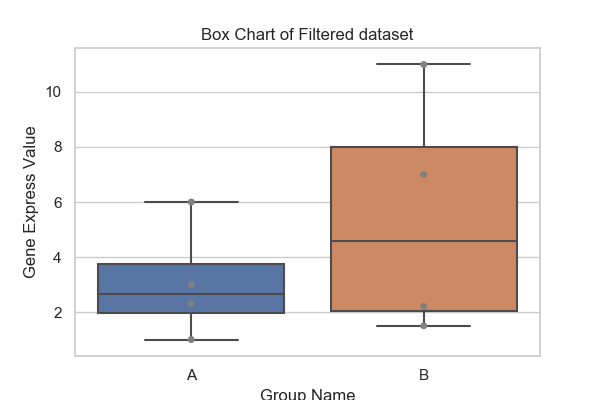
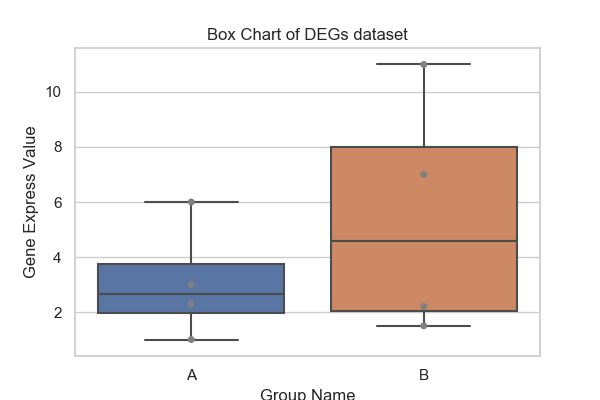
show pictures beautifully

Changed region(s): [[0.33, 0.06, 0.69, 0.12]]

diff --git a/templates/outcomePage.html b/templates/outcomePage.html
@@ -26,14 +26,133 @@
 		<button class="btn bg-danger">点击下载结果</button>
 	</a>
 
-    <img src="/static/images/box1.png">
-    <img src="/static/images/box2.png">
-    <img src="/static/images/scatter1.png">
-    <img src="/static/images/scatter2.png">
-    <img src="/static/images/line1.png">
-    <img src="/static/images/line2.png">
-    <img src="/static/images/heat1.png">
-    <img src="/static/images/heat2.png">
+    <div class="ui two cards">
+        <div class="ui card">
+            <div class="content">
+                <div class="ui placeholder">
+                    <div class="rectangular image">
+                        <img src="/static/images/box1.png">
+                    </div>
+                </div>
+            </div>
+        </div>
+        <div class="ui card">
+            <div class="content">
+                <div class="ui placeholder">
+                    <div class="rectangular image">
+                        <img src="/static/images/box2.png">
+                    </div>
+                </div>
+            </div>
+        </div>
+        <!--
+        <div class="ui card">
+            <div class="content">
+                <div class="ui placeholder">
+                    <div class="rectangular image">
+                        <img src="/static/images/box3.png">
+                    </div>
+                </div>
+            </div>
+        </div>
+        -->
+    </div>
+
+    <div class="ui two cards">
+        <div class="ui card">
+            <div class="content">
+                <div class="ui placeholder">
+                    <div class="rectangular image">
+                        <img src="/static/images/scatter1.png">
+                    </div>
+                </div>
+            </div>
+        </div>
+        <div class="ui card">
+            <div class="content">
+                <div class="ui placeholder">
+                    <div class="rectangular image">
+                        <img src="/static/images/scatter2.png">
+                    </div>
+                </div>
+            </div>
+        </div>
+        <!--
+        <div class="ui card">
+            <div class="content">
+                <div class="ui placeholder">
+                    <div class="rectangular image">
+                        <img src="/static/images/scatter3.png">
+                    </div>
+                </div>
+            </div>
+        </div>
+        -->
+    </div>
+
+    <div class="ui two cards">
+        <div class="ui card">
+            <div class="content">
+                <div class="ui placeholder">
+                    <div class="rectangular image">
+                        <img src="/static/images/line1.png">
+                    </div>
+                </div>
+            </div>
+        </div>
+        <div class="ui card">
+            <div class="content">
+                <div class="ui placeholder">
+                    <div class="rectangular image">
+                        <img src="/static/images/line2.png">
+                    </div>
+                </div>
+            </div>
+        </div>
+        <!--
+        <div class="ui card">
+            <div class="content">
+                <div class="ui placeholder">
+                    <div class="rectangular image">
+                        <img src="/static/images/line3.png">
+                    </div>
+                </div>
+            </div>
+        </div>
+        -->
+    </div>
+
+    <div class="ui two cards">
+        <div class="ui card">
+            <div class="content">
+                <div class="ui placeholder">
+                    <div class="rectangular image">
+                        <img src="/static/images/heat1.png">
+                    </div>
+                </div>
+            </div>
+        </div>
+        <div class="ui card">
+            <div class="content">
+                <div class="ui placeholder">
+                    <div class="rectangular image">
+                        <img src="/static/images/heat2.png">
+                    </div>
+                </div>
+            </div>
+        </div>
+        <!--
+        <div class="ui card">
+            <div class="content">
+                <div class="ui placeholder">
+                    <div class="rectangular image">
+                        <img src="/static/images/heat3.png">
+                    </div>
+                </div>
+            </div>
+        </div>
+        -->
+    </div>
 
 </body>
 </html>

diff --git a/DEGsPlatform/view.py b/DEGsPlatform/view.py
@@ -56,8 +56,10 @@ def check_column(request):
 def draw_pictures(data_file,filtered_data_file):
     data_in = data_file
     filtered_data_in = filtered_data_file
+    remaining_data_in = data_in[~data_in[data_in.columns.values.tolist()[0]].isin(filtered_data_in.loc[:,data_in.columns.values.tolist()[0]])]
     gene_data = data_in.loc[:,[control_in,case_in]]
     filtered_gene_data = filtered_data_in.loc[:,[control_in,case_in]]
+    remaining_gene_data = remaining_data_in.loc[:,[control_in,case_in]]
 
     sns.set(style="whitegrid", context="notebook")
 
@@ -70,12 +72,20 @@ def draw_pictures(data_file,filtered_data_file):
     plt.savefig('./static/images/box1.png')
 
     plt.figure(figsize=(6,4))   
-    plt.title('Box Chart of Filtered dataset')
+    plt.title('Box Chart of DEGs dataset')
     plt.ylabel('Gene Express Value')
     plt.xlabel('Group Name')
     sns.boxplot(data = filtered_gene_data)
     sns.swarmplot(data = filtered_gene_data,color = 'grey')
     plt.savefig('./static/images/box2.png')
+
+    plt.figure(figsize=(6,4))   
+    plt.title('Box Chart of Filtered dataset')
+    plt.ylabel('Gene Express Value')
+    plt.xlabel('Group Name')
+    sns.boxplot(data = remaining_gene_data)
+    sns.swarmplot(data = remaining_gene_data,color = 'grey')
+    plt.savefig('./static/images/box3.png')
 
 
     plt.figure(figsize=(6,4))   #散点图
@@ -89,7 +99,7 @@ def draw_pictures(data_file,filtered_data_file):
     plt.savefig('./static/images/scatter1.png')
 
     plt.figure(figsize=(6,4))  
-    plt.title('Scatter Chart of Filtered dataset')
+    plt.title('Scatter Chart of DEGs dataset')
     plt.ylabel('Gene Express Value')
     plt.xlabel('Group Name')
     sns.scatterplot(x=[0 for i in range(filtered_gene_data.shape[0])] , y=list(filtered_gene_data.loc[:,control_in]))
@@ -97,6 +107,16 @@ def draw_pictures(data_file,filtered_data_file):
     plt.xlim(-0.7,1.7)
     plt.xticks([0,1], [control_in,case_in])
     plt.savefig('./static/images/scatter2.png')
+
+    plt.figure(figsize=(6,4))  
+    plt.title('Scatter Chart of Filtered dataset')
+    plt.ylabel('Gene Express Value')
+    plt.xlabel('Group Name')
+    sns.scatterplot(x=[0 for i in range(remaining_gene_data.shape[0])] , y=list(remaining_gene_data.loc[:,control_in]))
+    sns.scatterplot(x=[1 for i in range(remaining_gene_data.shape[0])] , y=list(remaining_gene_data.loc[:,case_in]))
+    plt.xlim(-0.7,1.7)
+    plt.xticks([0,1], [control_in,case_in])
+    plt.savefig('./static/images/scatter3.png')
 
 
     plt.figure(figsize=(6,4))   #折线图
@@ -108,12 +128,20 @@ def draw_pictures(data_file,filtered_data_file):
     plt.savefig('./static/images/line1.png')
 
     plt.figure(figsize=(6,4))  
-    plt.title('Line Chart of Filtered dataset')
+    plt.title('Line Chart of DEGs dataset')
     plt.ylabel('Gene Express Value')
     plt.xlabel('Index Of Gene')
     sns.lineplot(x=[i+1 for i in range(filtered_gene_data.shape[0])] , y=list(filtered_gene_data.loc[:,control_in]) , label = 'Control')
     sns.lineplot(x=[i+1 for i in range(filtered_gene_data.shape[0])] , y=list(filtered_gene_data.loc[:,case_in]) , label = 'Case')
     plt.savefig('./static/images/line2.png')
+
+    plt.figure(figsize=(6,4))  
+    plt.title('Line Chart of Filtered dataset')
+    plt.ylabel('Gene Express Value')
+    plt.xlabel('Index Of Gene')
+    sns.lineplot(x=[i+1 for i in range(remaining_gene_data.shape[0])] , y=list(remaining_gene_data.loc[:,control_in]) , label = 'Control')
+    sns.lineplot(x=[i+1 for i in range(remaining_gene_data.shape[0])] , y=list(remaining_gene_data.loc[:,case_in]) , label = 'Case')
+    plt.savefig('./static/images/line3.png')
 
 
     plt.figure(figsize=(6,4))   #热图
@@ -124,11 +152,18 @@ def draw_pictures(data_file,filtered_data_file):
     plt.savefig('./static/images/heat1.png')
 
     plt.figure(figsize=(6,4)) 
-    plt.title('Heat Map of Filtered dataset')
+    plt.title('Heat Map of DEGs dataset')
     plt.ylabel('Gene Express Value')
     plt.xlabel('Index Of Gene')
     sns.heatmap(filtered_gene_data,annot=True)
     plt.savefig('./static/images/heat2.png')
+
+    plt.figure(figsize=(6,4)) 
+    plt.title('Heat Map of Filtered dataset')
+    plt.ylabel('Gene Express Value')
+    plt.xlabel('Index Of Gene')
+    sns.heatmap(remaining_gene_data,annot=True)
+    plt.savefig('./static/images/heat3.png')
 
 
 def cal_degs(request):
